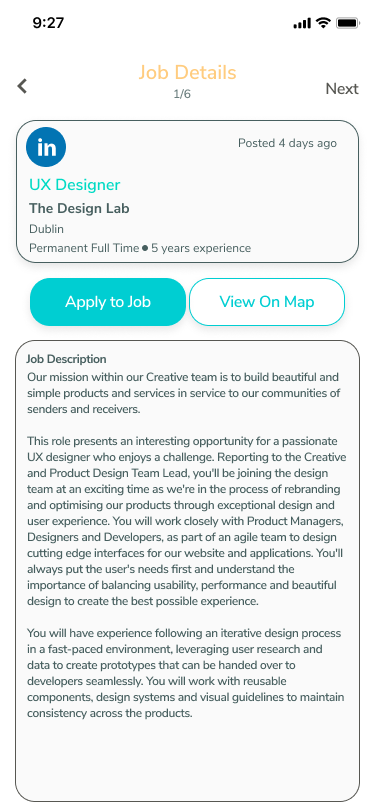
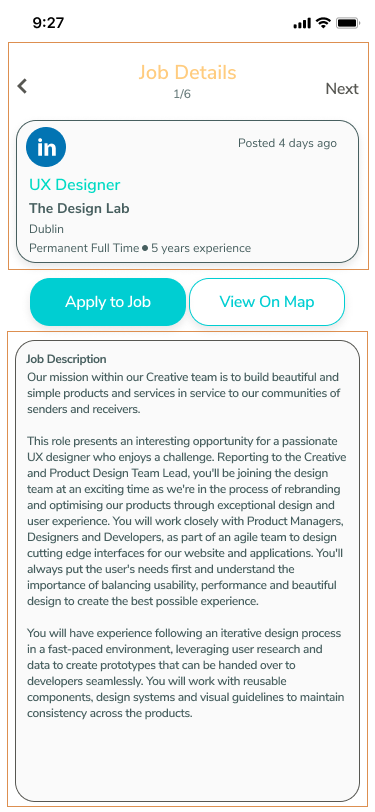
added more info for usability testing of right track

diff --git a/portfolio/righttrack.html b/portfolio/righttrack.html
@@ -770,7 +770,7 @@ addressed.
                       
                  <div class="row">         
 	  	    <div class="col-xs-12 col-sm-6 col-md-6 col-lg-6">
-	  	        <div class="portfolio-detail-body"><b>Selecting Job Cards</b></div>
+	  	        <div class="portfolio-detail-body"><b>Job Search Results</b></div>
 	  	    
 	  	         <UL  class="portfolio-detail-body ">
 	  	             
@@ -807,7 +807,7 @@ that the user can perform.
 	  	   
 	  	     
 	  	    <div class="col-xs-6 col-sm-3 col-md-3 col-lg-3   image-padding table-top-padding">
-	  	          <div class="portfolio-detail-body"><b><center>Jobs (Before Testing)</center></b>
+	  	          <div class="portfolio-detail-body"><b><center>Jobs Search (Before Testing)</center></b>
 	  	     </div>
            <img src="../assets/images/Search_Agencies_Added_Back.png" style="background-color:#FFF; border:1px solid grey" class="img-responsive" alt="Usability testing cards before">
 	  	  </div>
@@ -815,7 +815,7 @@ that the user can perform.
 	  	    
 	  	  
 	  	   <div class="col-xs-6 col-sm-3 col-md-3 col-lg-3 image-padding table-top-padding">
-	  	   <div class="portfolio-detail-body"><b><center>Jobs  (After Testing)</center></b></div>
+	  	   <div class="portfolio-detail-body"><b><center>Job Search  (After Testing)</center></b></div>
              <img src="../assets/images/Search_ResultsExport.png" style="background-color:#FFF; border:1px solid grey" class="img-responsive" alt="Usability testing cards after">
 	  	   </div>
 	  	   
@@ -869,10 +869,83 @@ The bevel on buttons was reduced from 20px down to 10px.
                       </div> <!-- close row -->
                       
              
-             
+         <div class="row">  
+	  	   <div class="col-xs-12 col-sm-6 col-md-6 col-lg-6">
+	  	         <div class="portfolio-detail-body"><b>Job Tracker Board</b></div>
+	   <UL  class="portfolio-detail-body ">
+	       <LI> 	   
+Some visual changes were made to the Kanban job tracker board also. The heading font size was increased to make it more accessible.
+</LI>
+<P></P>
+                 <LI> 	   
+The action button to switch to a list view to the right of the heading is now highlighted in green keeping with a consistent format.
+</LI>
+<p></p>
+<LI> 	   
+The Icons on the job cards in the tracker board now appear on the right, using the same layout as is seen for the cards in the 
+job results pages.
+</LI>
+<p></p>
+<LI> 	   
+The border has been removed from the cards, and the job title font colour has been changed from green to grey as the title is not a link or an action. 
+</LI>
+	  	   </div>
+	  	     
+	  	      
+	  	              
+                      <div class="col-xs-6 col-sm-3 col-md-3 col-lg-3  image-padding table-top-padding">
+                 <div class="portfolio-detail-body"><b><center>Job Tracker (Before Testing)</center></b></div>
+           <img src="../assets/images/Kanban_board_before.png" style="background-color:#FFF; border:1px solid grey" class="img-responsive" alt="Usability testing sign in before">
+     
+        </div>
+        
+        
+           <div class="col-xs-6 col-sm-3 col-md-3 col-lg-3   image-padding table-top-padding">
+            <div class="portfolio-detail-body"><b><center>Job Tracker (After Testing)</center></b></div>
+             <img src="../assets/images/Kanban_board_After.png" style="background-color:#FFF; border:1px solid grey" class="img-responsive" alt="Usability testing sign in before">
+     
+        </div>    
+                      
+                      </div> <!-- close row -->     
                                 
                       
+                 <div class="row">  
+	  	   <div class="col-xs-12 col-sm-6 col-md-6 col-lg-6">
+	  	         <div class="portfolio-detail-body"><b>Job Details</b></div>
+	   <UL  class="portfolio-detail-body ">
+	       <LI> 	   
+The heading font size is increased and the action button colour has been changed to green to improve accessibility.
+</LI>
+<P></P>
+                 <LI> 	   
+The border on the card has been removed to give it a lighter appearance.
+</LI>
+<p></p>
+<LI> 	   
+The card for the job description text has been removed, as it was felt this wasn't needed.
+</LI>
+<p></p>
+<LI> 	   
+The font size for the job description has been increased to improve accessibility.
+</LI>
+	  	   </div>
+	  	     
+	  	      
+	  	              
+                      <div class="col-xs-6 col-sm-3 col-md-3 col-lg-3  image-padding table-top-padding">
+                 <div class="portfolio-detail-body"><b><center>Job Details (Before Testing)</center></b></div>
+           <img src="../assets/images/Apply_jobExport_before.png" style="background-color:#FFF; border:1px solid grey" class="img-responsive" alt="Usability testing sign in before">
+     
+        </div>
+        
+        
+           <div class="col-xs-6 col-sm-3 col-md-3 col-lg-3   image-padding table-top-padding">
+            <div class="portfolio-detail-body"><b><center>Job Details (After Testing)</center></b></div>
+             <img src="../assets/images/Apply_jobExport_after.png" style="background-color:#FFF; border:1px solid grey" class="img-responsive" alt="Usability testing sign in before">
+     
+        </div>    
                       
+                      </div> <!-- close row -->            
          
                       
                       
